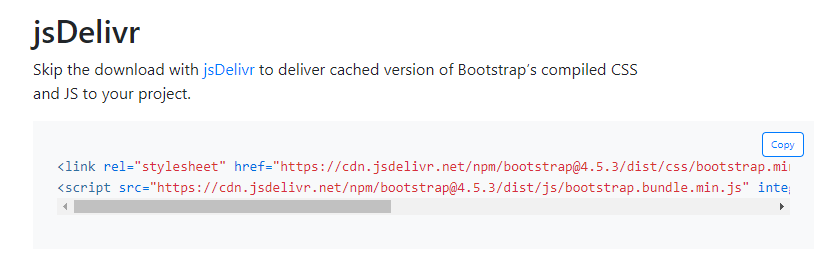
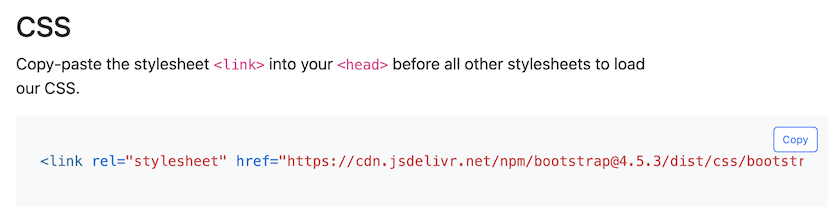
replace screenshot in installing bootstrap lesson

diff --git a/versioned_docs/version-1.1/1_introduction-to-programming/1_git-html-and-css/BQ-1-1-4-5-downloading-and-installing-bootstrap.md b/versioned_docs/version-1.1/1_introduction-to-programming/1_git-html-and-css/BQ-1-1-4-5-downloading-and-installing-bootstrap.md
@@ -62,7 +62,8 @@ As we see here, we can link to multiple stylesheets. However, it's very importan
 
 ### Linking to a CDN
 
-We can also add Bootstrap into a project via a **content delivery network**, or **CDN**. This is the option under the section titled "jsDelivr" on Bootstrap's [download page](https://getbootstrap.com/docs/4.5/getting-started/download/#jsdelivr). jsDelivr is a content delivery network.
+We can also add Bootstrap into a project via a **content delivery network**, or **CDN**. This is the option explained in the "Quick start" section on Bootstrap's [introduction page](https://getbootstrap.com/docs/4.5/getting-started/introduction/#quick-start).
+
 
 ![CDN-links-on-bootstraps-website](/images/bootstrap-cdn-with-jsdeliver.png)
 
@@ -90,19 +91,20 @@ Note, you do not need to retain any of the above information. However, it is int
 
 #### What's the `<script>` Tag?
 
-You likely also noticed a `<script>` tag in the Bootstrap CDN links:
+If you scrolled down to the **JS** section of the Bootstrap introduction page, you may have noticed some `<script>` tags:
 
 ```html
+<script src="https://code.jquery.com/jquery-3.5.1.slim.min.js" integrity="sha384-DfXdz2htPH0lsSSs5nCTpuj/zy4C+OGpamoFVy38MVBnE+IbbVYUew+OrCXaRkfj" crossorigin="anonymous"></script>
 <script src="https://cdn.jsdelivr.net/npm/bootstrap@4.5.3/dist/js/bootstrap.bundle.min.js" integrity="sha384-ho+j7jyWK8fNQe+A12Hb8AhRq26LrZ/JpcUGGOn+Y7RsweNrtN/tE3MoK7ZeZDyx" crossorigin="anonymous"></script>
 ```
 
-The `<script>` tag lets us add executable code to our HTML, like JavaScript. This specific script tag lets us use Bootstrap's JavaScript library in our project (which we source via the CDN). 
+The `<script>` tag lets us add executable code to our HTML, like JavaScript. These specific script tags let us use Bootstrap's JavaScript library in our project (which we source via the CDN), as well as the jQuery library, which Bootstrap's JavaScript library depends on.
 
 We'll learn all about JavaScript and the `<script>` tag in the next section. For now, it's helpful to know that JavaScript enables interactivity for webpages, like visual effects or animations. Because of this, many Bootstrap elements require JavaScript. Examples include dropdown menus, modal windows, and so on. If you'd like to see an example, check out [this demo of a Bootstrap modal that uses JavaScript](https://getbootstrap.com/docs/4.5/components/modal/#live-demo). Make sure to click the button "Launch demo modal".
 
-Since we won't begin exploring JavaScript until the next section, we recommend holding off on adding any JavaScript features for now. This means you do not need to include the `<script>` tag for Bootstrap's JS library in your project's `<head>` tags. Also, you will never be expected to add any Bootstrap JavaScript features for an independent project at Epicodus, so it's up to you if you eventually want to explore them further.
+Since we won't begin exploring JavaScript until the next section, we recommend holding off on adding any JavaScript features for now. This means you do not need to include the `<script>` tags in your project's `<head>` tags. Also, you will never be expected to add any Bootstrap JavaScript features for an independent project at Epicodus, so it's up to you if you eventually want to explore them further.
 
-If you do want to explore JavaScript features, the easiest way to do this is to include the CDN link to Bootstrap's JavaScript file in the `<head>` tags of your HTML document. 
+If you do want to explore JavaScript features, the easiest way to do this is to include the CDN link to jQuery and to Bootstrap's JavaScript file in the `<head>` tags of your HTML document. 
 
 To learn which elements require JavaScript, visit [Bootstrap's JavaScript Documentation](https://getbootstrap.com/docs/4.5/getting-started/introduction/#components). Make sure to select the drop down that says "Show components requiring JavaScript".
 

diff --git a/docs/1_introduction-to-programming/1_git-html-and-css/BQ-1-1-4-5-downloading-and-installing-bootstrap.md b/docs/1_introduction-to-programming/1_git-html-and-css/BQ-1-1-4-5-downloading-and-installing-bootstrap.md
@@ -65,13 +65,7 @@ As we see here, we can link to multiple stylesheets. However, it's very importan
 We can also add Bootstrap into a project via a **content delivery network**, or **CDN**. This is the option explained in the "Quick start" section on Bootstrap's [introduction page](https://getbootstrap.com/docs/4.5/getting-started/introduction/#quick-start).
 
 
-```
-CSS
-
-Copy-paste the stylesheet <link> into your <head> before all other stylesheets to load our CSS.
-
-<link rel="stylesheet" href="https://cdn.jsdelivr.net/npm/bootstrap@4.5.3/dist/css/bootstrap.min.css" integrity="sha384-TX8t27EcRE3e/ihU7zmQxVncDAy5uIKz4rEkgIXeMed4M0jlfIDPvg6uqKI2xXr2" crossorigin="anonymous">
-```
+![CDN-links-on-bootstraps-website](/images/bootstrap-cdn-with-jsdeliver.png)
 
 A content delivery network is exactly what it sounds like — a network of servers that make content available for users. In this case, Bootstrap is making its stylesheets available online, which means we can just load the online version directly to our project without needing to add any files to our `css` directory.
 
